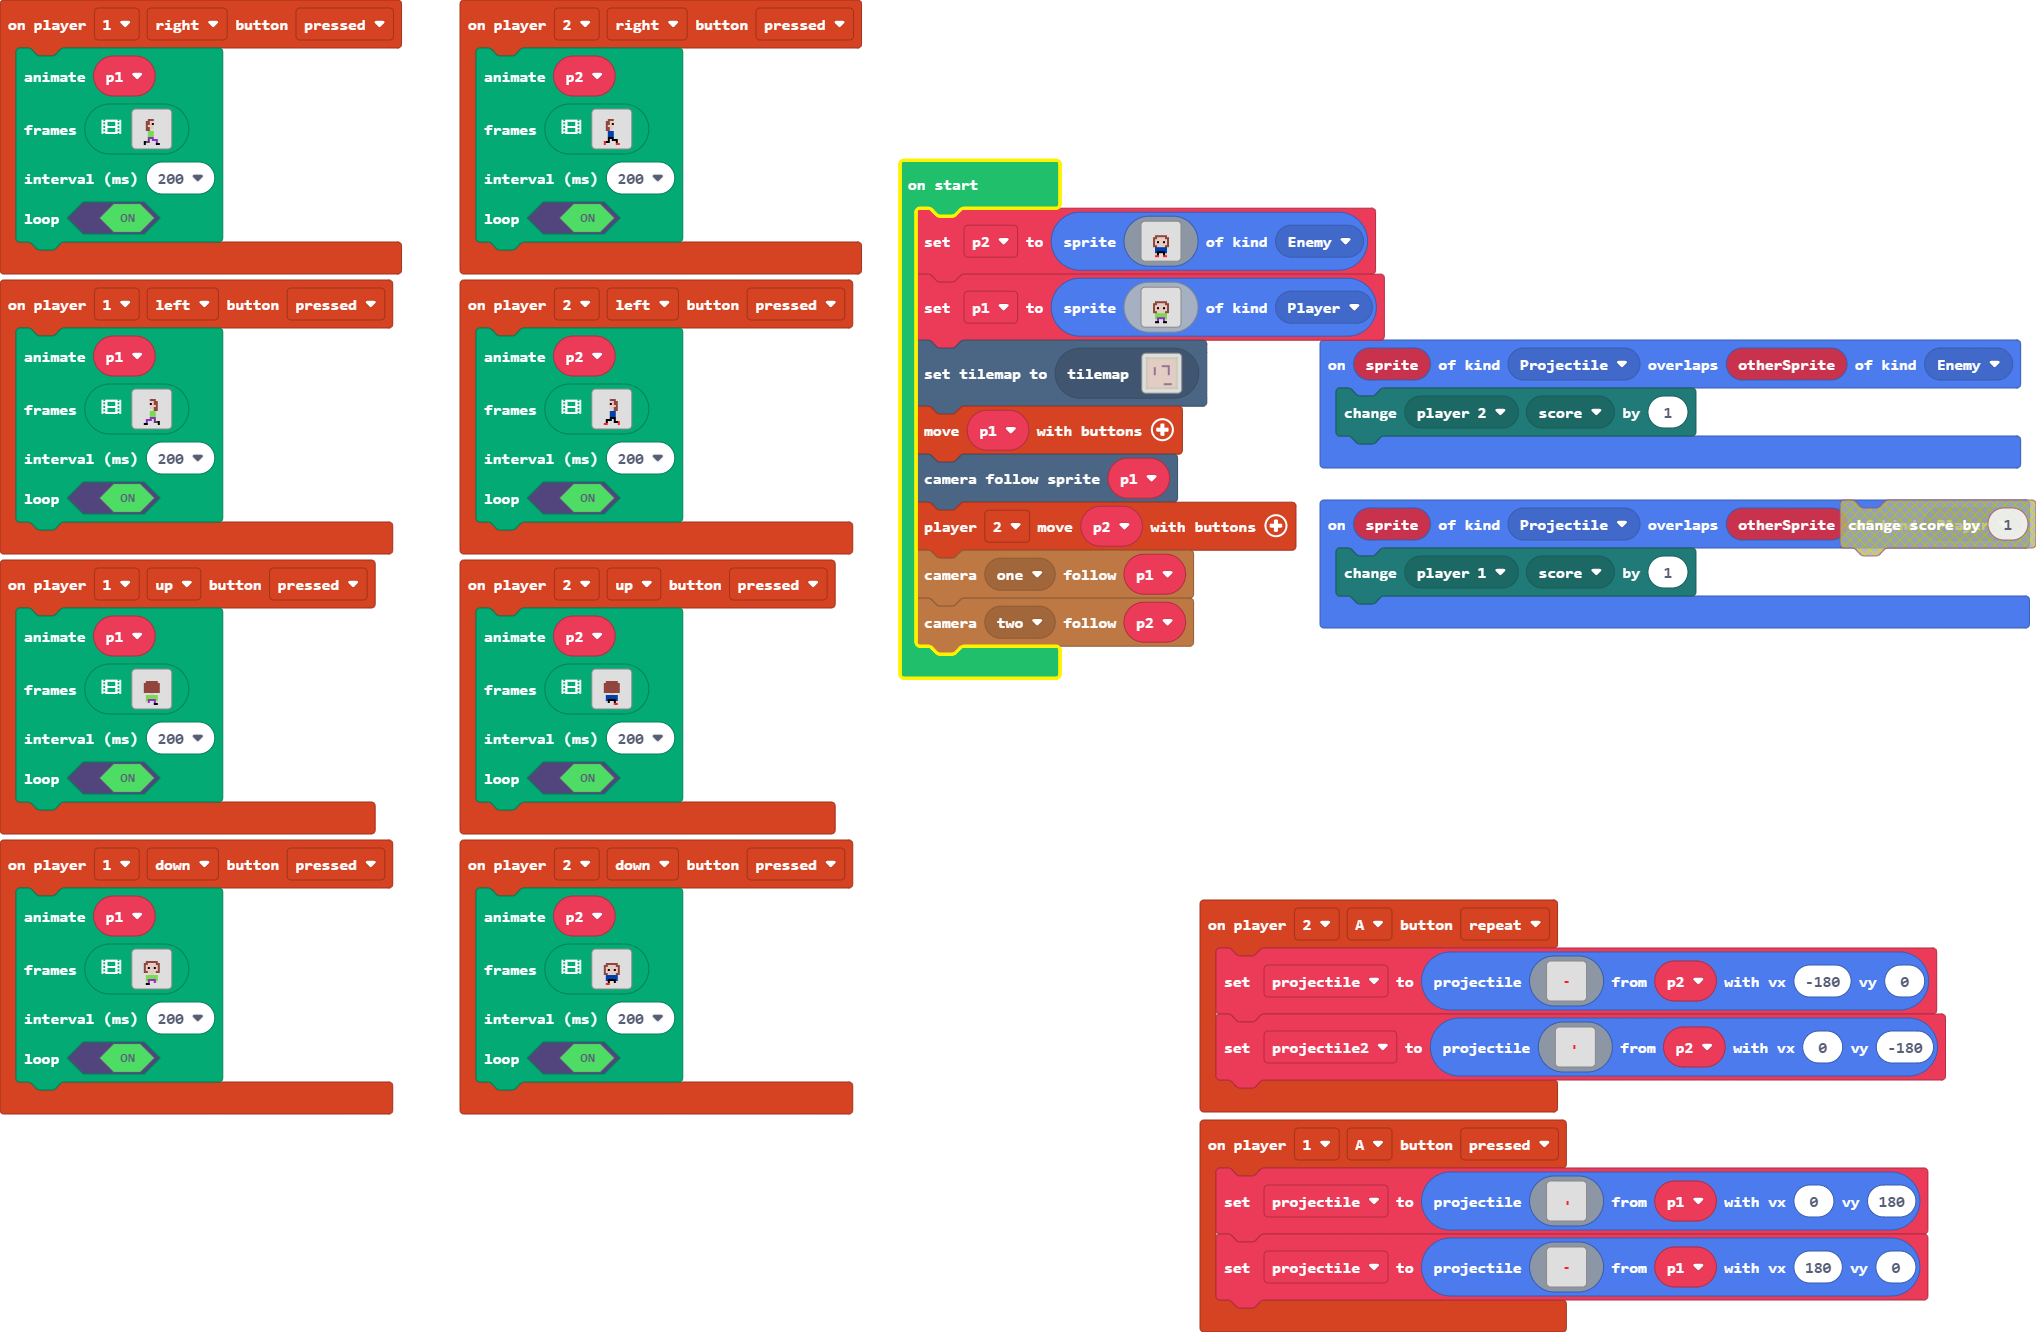
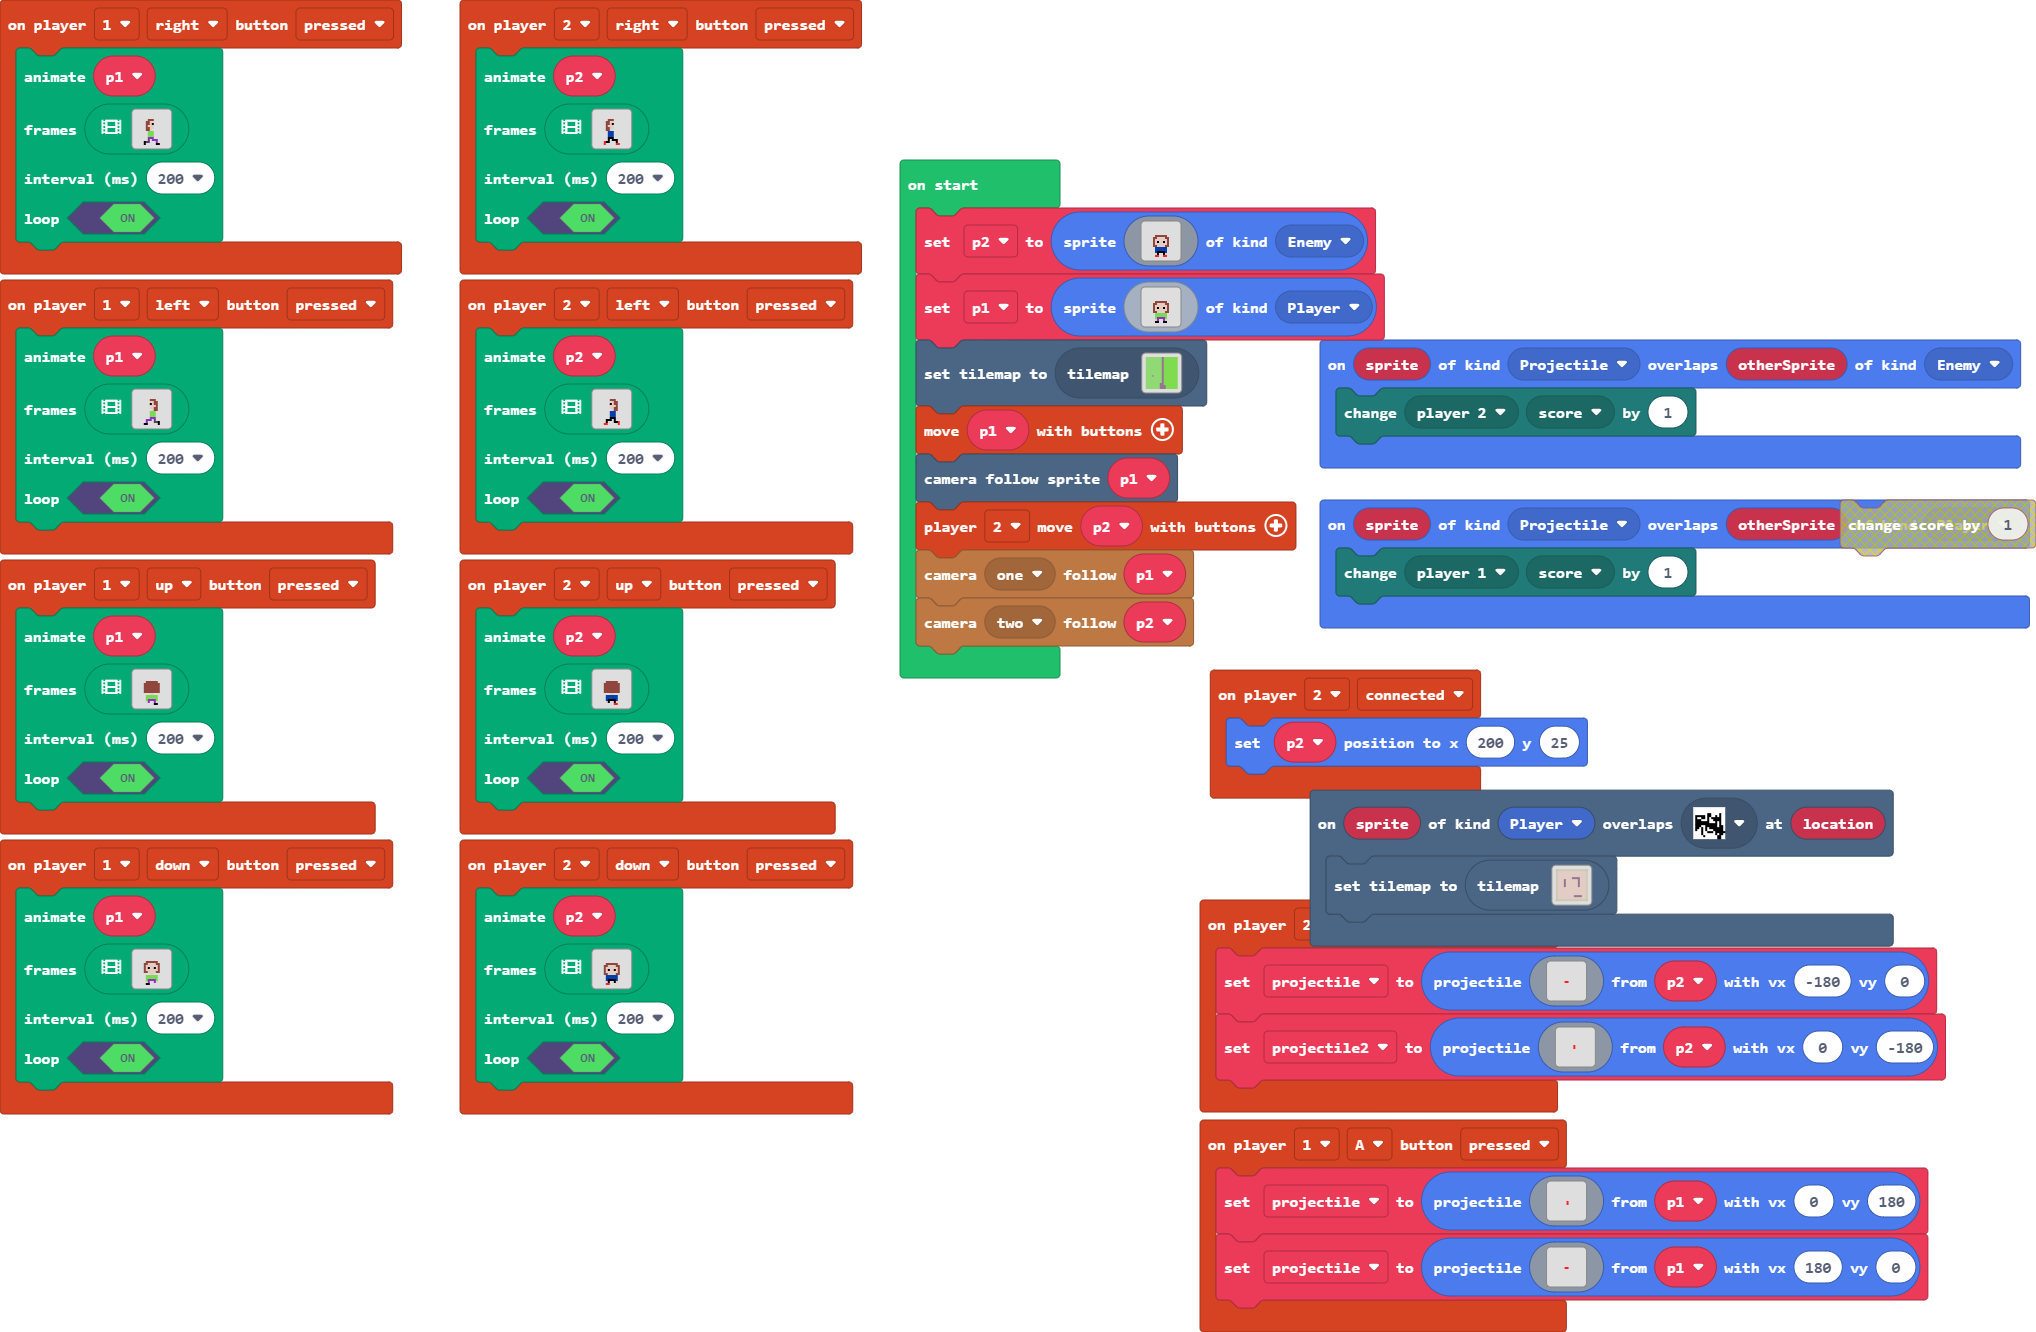
HEFUR ENN BUGS

Changed region(s): [[0.5879, 0.4925, 0.9283, 0.708], [0.4332, 0.1539, 0.526, 0.5233], [0.557, 0.2462, 0.5879, 0.3078]]

diff --git a/tilemap.g.ts b/tilemap.g.ts
@@ -4,6 +4,8 @@ namespace myTiles {
     export const transparency16 = image.ofBuffer(hex``);
     //% fixedInstance jres blockIdentity=images._tile
     export const tile1 = image.ofBuffer(hex``);
+    //% fixedInstance jres blockIdentity=images._tile
+    export const tile2 = image.ofBuffer(hex``);
 
     helpers._registerFactory("tilemap", function(name: string) {
         switch(helpers.stringTrim(name)) {
@@ -83,6 +85,44 @@ namespace myTiles {
 . . . . . . . . . . . . . . . . 
 . . . . . . . . . . . . . . . . 
 `, [myTiles.transparency16,sprites.castle.tilePath5,sprites.castle.tilePath2,sprites.castle.tilePath3,sprites.castle.tilePath1,sprites.castle.tilePath8,sprites.castle.tilePath9,sprites.castle.tilePath7,sprites.castle.tilePath6,sprites.castle.tilePath4,myTiles.tile1], TileScale.Sixteen);
+            case "level5":
+            case "level5":return tiles.createTilemap(hex`1000100000000000000000000000000000000000000000000000000000000000000000000000000000000000000000000000000000000000000000000000000000000000000000000000000000000000000000000000000000000000000000000000000000000000000000000000000000000000000000000000000000000000000000000000000000000000000000000000000000000000000000000000000000000000000000000000000000000000000000000000000000000000000000000000000000000000000000000000000000000000000000000000000000000000000000000000000000000000000000000000000000000000000000000000000000000000`, img`
+. . . . . . . . . . . . . . . . 
+. . . . . . . . . . . . . . . . 
+. . . . . . . . . . . . . . . . 
+. . . . . . . . . . . . . . . . 
+. . . . . . . . . . . . . . . . 
+. . . . . . . . . . . . . . . . 
+. . . . . . . . . . . . . . . . 
+. . . . . . . . . . . . . . . . 
+. . . . . . . . . . . . . . . . 
+. . . . . . . . . . . . . . . . 
+. . . . . . . . . . . . . . . . 
+. . . . . . . . . . . . . . . . 
+. . . . . . . . . . . . . . . . 
+. . . . . . . . . . . . . . . . 
+. . . . . . . . . . . . . . . . 
+. . . . . . . . . . . . . . . . 
+`, [myTiles.transparency16], TileScale.Sixteen);
+            case "level6":
+            case "level6":return tiles.createTilemap(hex`1000100003030303030303030102020202020202030303030303030301020202020202020303030303030303010202020202020203030303030303030102020202020202030303030303030301020202020202020303030303030303010202020202020203030303030303030102020202020202030303030303030301020202020202020303030303030303010202020202020203030304030303030102020202020202030303030303030301020202020202020303030303030303010202020202020203030303030303030102020202020202030303030303030101020202020202020303030303030301010102020202020203030303030303010101020202020202`, img`
+. . . . . . . . 2 . . . . . . . 
+. . . . . . . . 2 . . . . . . . 
+. . . . . . . . 2 . . . . . . . 
+. . . . . . . . 2 . . . . . . . 
+. . . . . . . . 2 . . . . . . . 
+. . . . . . . . 2 . . . . . . . 
+. . . . . . . . 2 . . . . . . . 
+. . . . . . . . 2 . . . . . . . 
+. . . . . . . . 2 . . . . . . . 
+. . . . . . . . 2 . . . . . . . 
+. . . . . . . . 2 . . . . . . . 
+. . . . . . . . 2 . . . . . . . 
+. . . . . . . . 2 . . . . . . . 
+. . . . . . . . 2 . . . . . . . 
+. . . . . . . . 2 . . . . . . . 
+. . . . . . . . 2 . . . . . . . 
+`, [myTiles.transparency16,myTiles.tile1,sprites.castle.tileGrass1,sprites.castle.tileGrass2,myTiles.tile2], TileScale.Sixteen);
         }
         return null;
     })
@@ -92,6 +132,8 @@ namespace myTiles {
             case "transparency16":return transparency16;
             case "myTile":
             case "tile1":return tile1;
+            case "myTile0":
+            case "tile2":return tile2;
         }
         return null;
     })

diff --git a/main.ts b/main.ts
@@ -1,3 +1,6 @@
+scene.onOverlapTile(SpriteKind.Player, assets.tile`myTile0`, function (sprite, location) {
+    tiles.setCurrentTilemap(tilemap`level1`)
+})
 controller.player2.onButtonEvent(ControllerButton.A, ControllerButtonEvent.Repeated, function () {
     projectile = sprites.createProjectileFromSprite(img`
         . . . . . . . . . . . . . . . . 
@@ -431,6 +434,9 @@ controller.player1.onButtonEvent(ControllerButton.A, ControllerButtonEvent.Press
         . . . . . . . . . . . . . . . . 
         `, p1, 180, 0)
 })
+controller.player2.onEvent(ControllerEvent.Connected, function () {
+    p2.setPosition(200, 25)
+})
 sprites.onOverlap(SpriteKind.Projectile, SpriteKind.Enemy, function (sprite, otherSprite) {
     mp.changePlayerStateBy(mp.playerSelector(mp.PlayerNumber.Two), MultiplayerState.score, 1)
 })
@@ -592,7 +598,7 @@ p1 = sprites.create(img`
     . . . . . d a . . a d . . . . . 
     . . . . . f f . . f f . . . . . 
     `, SpriteKind.Player)
-tiles.setCurrentTilemap(tilemap`level1`)
+tiles.setCurrentTilemap(tilemap`level6`)
 controller.moveSprite(p1)
 scene.cameraFollowSprite(p1)
 controller.player2.moveSprite(p2)
